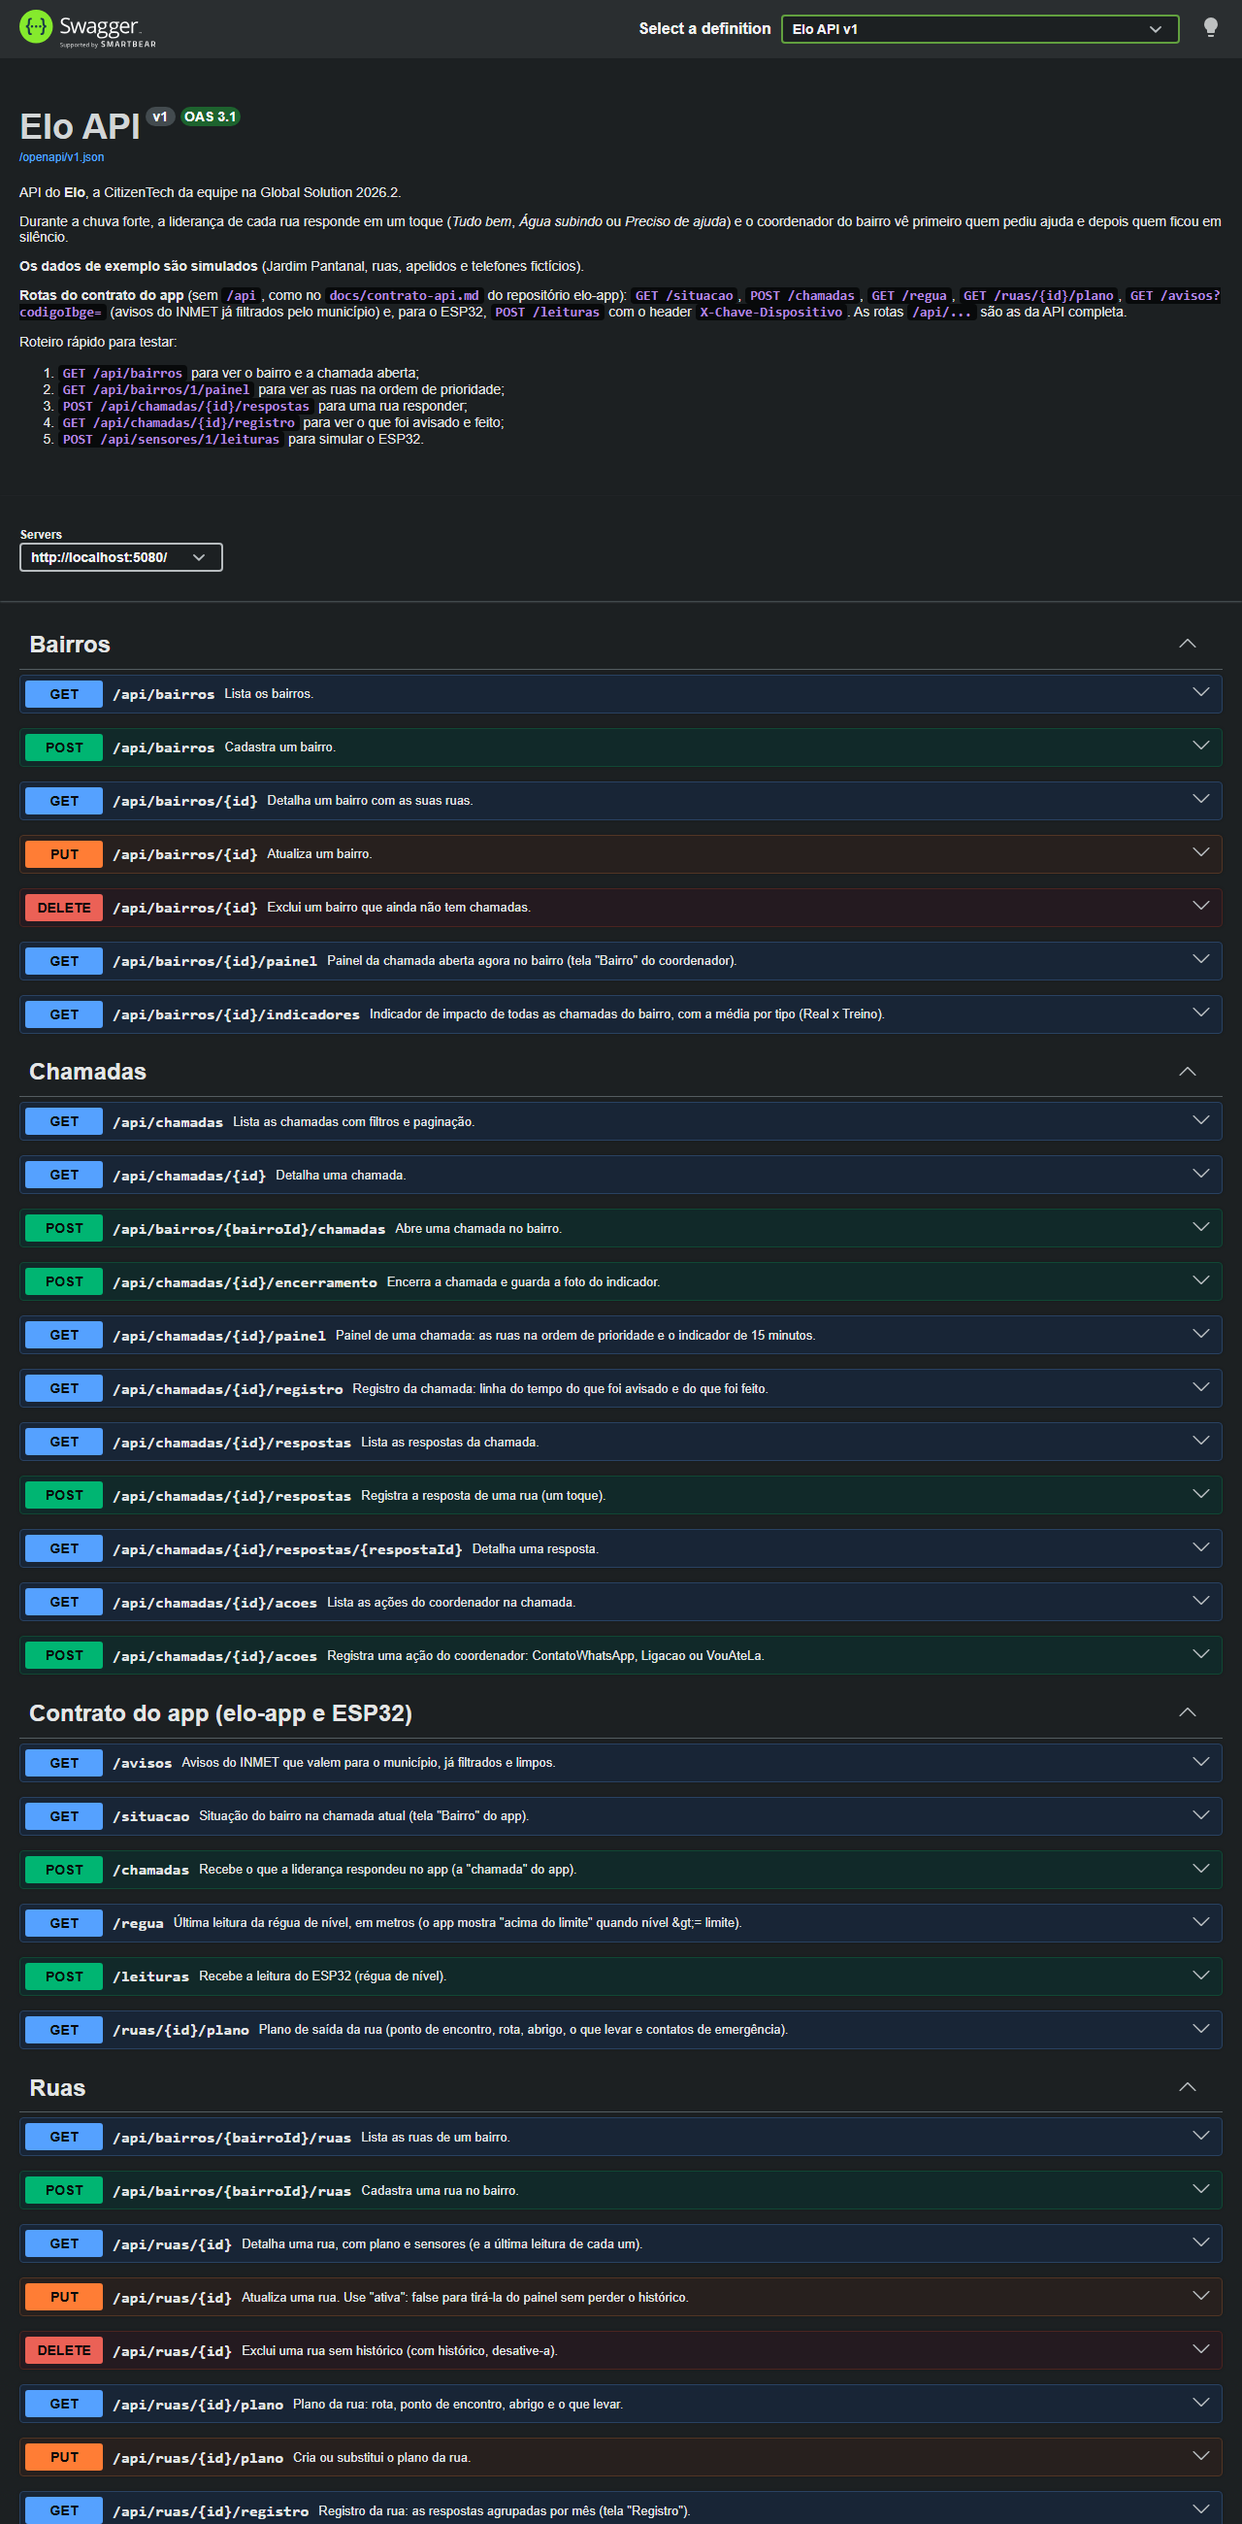
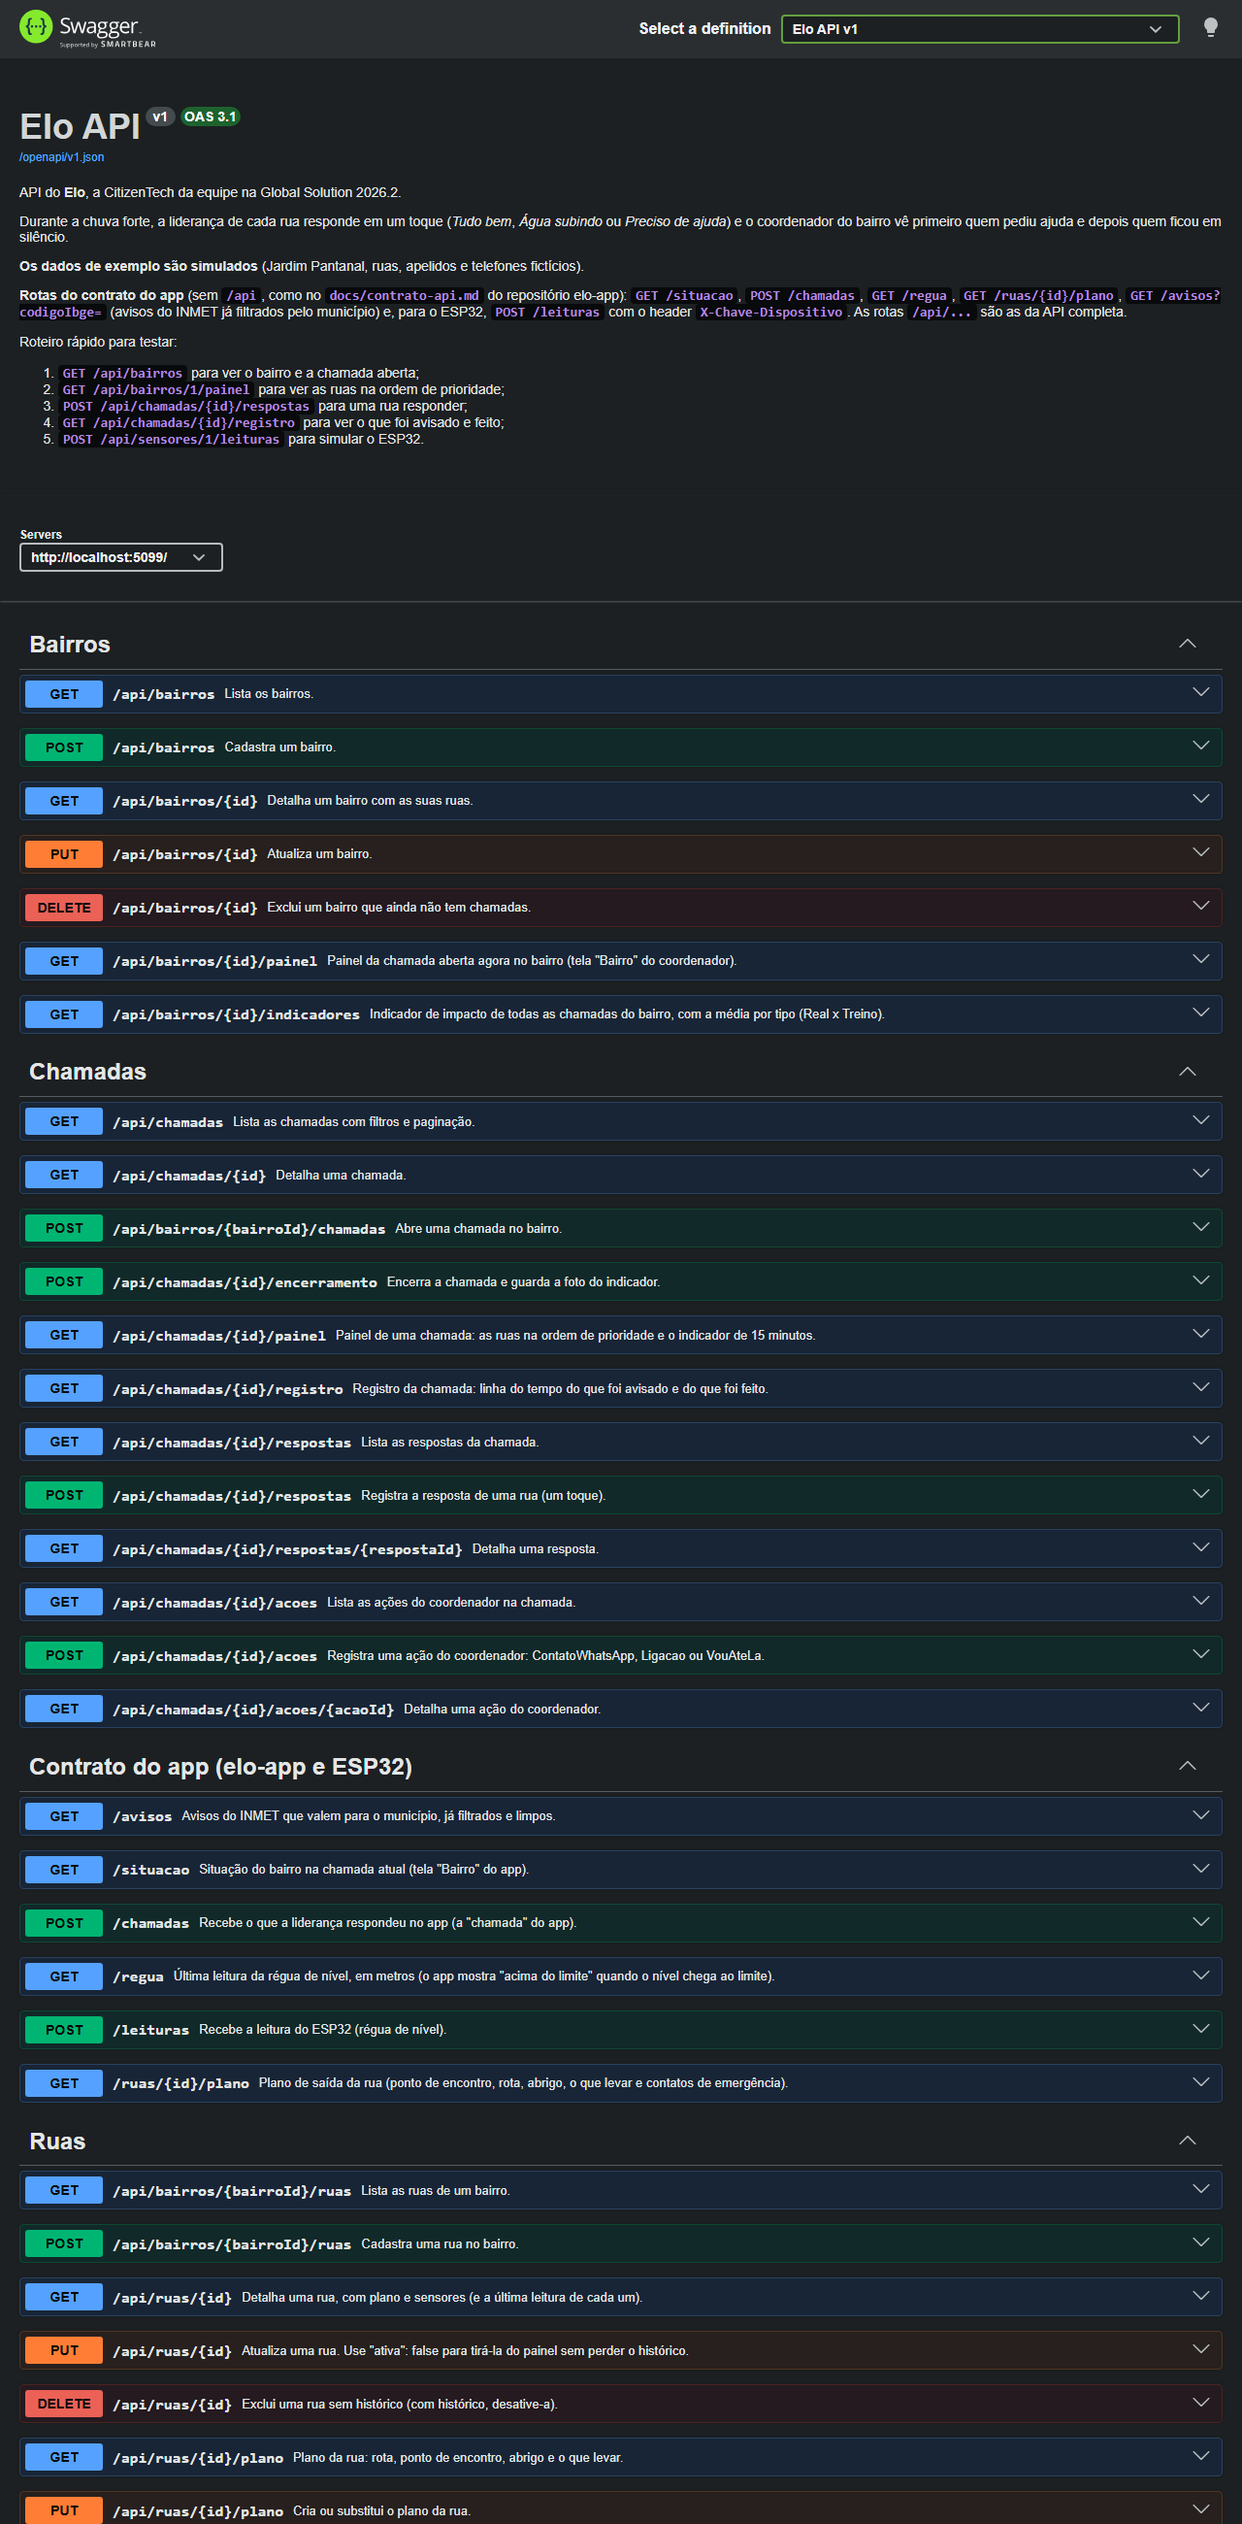
Atualiza README, evidências e prompts.md depois da revisão
README: 41 operações, os dois GETs novos na tabela, o Decorator do INMET
descrito como está no código, polimorfismo e value objects atualizados, 154
testes e o motivo de a segunda migration não gerar SQL.

Evidências: novo print do Swagger (com o GET da ação e sem o "&gt;"), o
resultado dos 154 testes e o Location dos passos 8 e 9, conferidos de novo num
banco recém-criado. O prompts.md registra o pedido de revisão e o que mudou.

Changed region(s): [[0.0, 0.6542, 0.625, 1.0], [0.1875, 0.9969, 0.2188, 1.0]]

diff --git a/README.md b/README.md
@@ -142,7 +142,7 @@ Sem chave configurada, só o ambiente de desenvolvimento aceita a leitura (para 
 
 ## Endpoints
 
-São 39 operações REST, todas assíncronas e documentadas no Swagger/Scalar.
+São 41 operações REST, todas assíncronas e documentadas no Swagger/Scalar.
 
 ### Rotas do contrato do app e do ESP32 (sem `/api`)
 
@@ -183,9 +183,11 @@ Nos dados simulados: bairro `1`, treino antigo = chamada `1`, chamada real abert
 | GET / POST | `/api/chamadas/{id}/respostas` | Lista (filtros `situacao`, `ruaId`) ou registra a resposta de uma rua |
 | GET | `/api/chamadas/{id}/respostas/{respostaId}` | Detalha uma resposta |
 | GET / POST | `/api/chamadas/{id}/acoes` | Lista ou registra ação do coordenador (`ContatoWhatsApp`, `Ligacao`, `VouAteLa`) |
+| GET | `/api/chamadas/{id}/acoes/{acaoId}` | Detalha uma ação (é para cá que aponta o `Location` do 201) |
 | GET / POST | `/api/sensores` | Lista (filtro `ruaId`) ou cadastra uma régua |
 | GET / PUT / DELETE | `/api/sensores/{id}` | Detalha, atualiza ou exclui uma régua |
 | GET / POST | `/api/sensores/{id}/leituras` | Lista as últimas leituras ou registra uma leitura (em cm) |
+| GET | `/api/sensores/{id}/leituras/{leituraId}` | Detalha uma leitura (é para cá que aponta o `Location` do 201) |
 
 Os detalhes de campos e fluxos estão em [`docs/contrato-api.md`](docs/contrato-api.md).
 
@@ -224,12 +226,13 @@ o status é `preciso_ajuda` e o id da rua é texto. O [`ContratoDoAppService`](s
 traduz isso para o domínio (a resposta entra na `Chamada` aberta do bairro), sem duplicar regra: tudo passa pelos mesmos
 métodos de `Chamada`, `Resposta` e `Sensor`. O painel e o `/situacao` usam o mesmo [`MontadorDeSituacoes`](src/Elo.Application/Painel/MontadorDeSituacoes.cs).
 
-**Avisos do INMET.** A Aplicação só conhece a interface `IFonteDeAvisos`. Na Infraestrutura, o
-[`ClienteDoInmet`](src/Elo.Infrastructure/Avisos/ClienteDoInmet.cs) baixa a resposta, o
-[`LeitorDeAvisosDoInmet`](src/Elo.Infrastructure/Avisos/LeitorDeAvisosDoInmet.cs) aplica as mesmas regras do `inmet.ts` do app,
-a [`FonteDeAvisosEmCache`](src/Elo.Infrastructure/Avisos/FonteDeAvisosEmCache.cs) (padrão Decorator) guarda a última lista boa e o
-[`AtualizadorDeAvisosWorker`](src/Elo.Infrastructure/Avisos/AtualizadorDeAvisosWorker.cs) atualiza a cada 5 minutos.
-O [`AvisoService`](src/Elo.Application/Avisos/AvisoService.cs) filtra pelo município com LINQ.
+**Avisos do INMET (padrão Decorator).** A Aplicação só conhece a interface `IFonteDeAvisos`. Na Infraestrutura, duas
+classes implementam essa interface: o [`ClienteDoInmet`](src/Elo.Infrastructure/Avisos/ClienteDoInmet.cs) vai direto ao INMET
+(o [`LeitorDeAvisosDoInmet`](src/Elo.Infrastructure/Avisos/LeitorDeAvisosDoInmet.cs) aplica as mesmas regras do `inmet.ts` do app)
+e a [`FonteDeAvisosEmCache`](src/Elo.Infrastructure/Avisos/FonteDeAvisosEmCache.cs) embrulha o cliente e acrescenta o cache,
+guardando a última lista boa. Quem pede `IFonteDeAvisos` recebe o cache sem saber disso. O
+[`AtualizadorDeAvisosWorker`](src/Elo.Infrastructure/Avisos/AtualizadorDeAvisosWorker.cs) atualiza o cache a cada 5 minutos
+pela interface `ICacheDeAvisos`, e o [`AvisoService`](src/Elo.Application/Avisos/AvisoService.cs) filtra pelo município com LINQ.
 
 Modelo de domínio:
 
@@ -275,15 +278,15 @@ classDiagram
 | Conceito | Onde |
 |---|---|
 | **Abstração e herança** | [`Entidade`](src/Elo.Domain/Comum/Entidade.cs) é a base de todas as entidades. [`Chamada`](src/Elo.Domain/Chamadas/Chamada.cs) é abstrata, com as subclasses [`ChamadaReal`](src/Elo.Domain/Chamadas/ChamadaReal.cs) e [`ChamadaTreino`](src/Elo.Domain/Chamadas/ChamadaTreino.cs) |
-| **Polimorfismo** | `Tipo`, `Pergunta` e `MontarMensagemParaRua` são abstratos: cada chamada responde do seu jeito (o treino avisa "TREINO" para ninguém confundir com alerta real). O painel e o link do WhatsApp usam isso sem saber o tipo |
+| **Polimorfismo** | `Tipo`, `Pergunta`, `MontarMensagemParaRua` e `DescreverAbertura` são abstratos, e `AvisoQueMotivou` e `DuracaoPrevistaEmMinutos` são virtuais: cada chamada responde do seu jeito (o treino avisa "TREINO" para ninguém confundir com alerta real). O painel, o link do WhatsApp, o registro e o DTO usam isso sem saber o tipo, sem `is` nem `as` |
 | **Encapsulamento** | Setters privados, coleções expostas só para leitura (`IReadOnlyCollection` sobre lista privada), construtor `internal` de [`Resposta`](src/Elo.Domain/Chamadas/Resposta.cs): só a chamada cria respostas, depois de validar janela de tempo e bairro |
-| **Value objects** | [`Lideranca`](src/Elo.Domain/Ruas/Lideranca.cs), [`PlanoDaRua`](src/Elo.Domain/Ruas/PlanoDaRua.cs), [`AvisoOficial`](src/Elo.Domain/Chamadas/AvisoOficial.cs) e [`IndicadorDaChamada`](src/Elo.Domain/Chamadas/IndicadorDaChamada.cs) são `record`s imutáveis, comparados por valor |
-| **Interfaces** | Repositórios ([`IRepository<T>`](src/Elo.Application/Abstracoes/IRepository.cs) genérico e os específicos), `IUnitOfWork` e uma interface por serviço, inclusive `IContratoDoAppService` |
+| **Value objects** | [`Lideranca`](src/Elo.Domain/Ruas/Lideranca.cs), [`PlanoDaRua`](src/Elo.Domain/Ruas/PlanoDaRua.cs), [`AvisoOficial`](src/Elo.Domain/Chamadas/AvisoOficial.cs) e [`IndicadorDaChamada`](src/Elo.Domain/Chamadas/IndicadorDaChamada.cs) são `record`s imutáveis, comparados por valor. No `PlanoDaRua`, a lista de itens é só leitura e entra na comparação (`Equals` e `GetHashCode` escritos à mão, porque o `record` compararia a lista por referência) |
+| **Interfaces** | Repositórios ([`IRepository<T>`](src/Elo.Application/Abstracoes/IRepository.cs) genérico e os específicos), `IUnitOfWork`, uma interface por serviço, inclusive `IContratoDoAppService`, e `IFonteDeAvisos`, implementada pelo cliente do INMET e pelo cache que o embrulha (Decorator) |
 | **Generics** | `IRepository<T> where T : Entidade`, [`RepositoryBase<T>`](src/Elo.Infrastructure/Repositorios/RepositoryBase.cs), `PaginaResultado<T>`, `ResultadoDeRegistro<T>` |
 
 ### Web API (2,5)
 
-- Controllers REST em [`src/Elo.Api/Controllers`](src/Elo.Api/Controllers) com `[ApiController]`, rotas por recurso e sub-recurso, verbos corretos e códigos 200, 201 (com `Location`), 204, 400, 401, 404, 409 e 422.
+- Controllers REST em [`src/Elo.Api/Controllers`](src/Elo.Api/Controllers) com `[ApiController]`, rotas por recurso e sub-recurso, verbos corretos e códigos 200, 201 (com `Location` apontando para o recurso criado), 204, 400, 401, 404, 409 e 422.
 - **Rotas do contrato do app** ([`ContratoDoAppController`](src/Elo.Api/Controllers/ContratoDoAppController.cs)) no formato que o `elo-app` e o ESP32 já usam.
 - DTOs de entrada e saída separados das entidades (a API nunca expõe entidade), com validação por DataAnnotations e mensagens em português.
 - Erros padronizados em ProblemDetails (RFC 9457) pelo [`TratadorGlobalDeExcecoes`](src/Elo.Api/Configuracao/TratadorGlobalDeExcecoes.cs): os controllers não têm `try/catch`.
@@ -297,7 +300,7 @@ classDiagram
 - **Herança TPH**: `ChamadaReal` e `ChamadaTreino` na tabela `Chamadas`, com a coluna `Discriminador`.
 - **Owned types** para os value objects, **coleção primitiva** (lista do plano salva em JSON), enums gravados como texto, conversor de datas para UTC.
 - **Índice único filtrado** que garante no banco uma chamada aberta por bairro, e índice único no id local das respostas.
-- [Migrations](src/Elo.Infrastructure/Persistencia/Migrations) aplicadas sozinhas na inicialização (a segunda registra a adaptação ao contrato do app).
+- [Migrations](src/Elo.Infrastructure/Persistencia/Migrations) aplicadas sozinhas na inicialização. A segunda registra a adaptação ao contrato do app (id local em texto e observação de até 200 caracteres) e não gera SQL: no SQLite essas colunas já eram `TEXT` e o tamanho máximo não é aplicado pelo banco, então só o modelo mudou.
 - LINQ em vários níveis:
   - [`PriorizadorDeRuas`](src/Elo.Domain/Painel/PriorizadorDeRuas.cs): `Where`, `OrderBy`/`ThenBy`/`ThenByDescending` e concatenação: **é o LINQ que ordena as ruas em silêncio**;
   - [`IndicadorDaChamada`](src/Elo.Domain/Chamadas/IndicadorDaChamada.cs): `GroupBy`, `Min`, `Any`, `Count`, `Average`;
@@ -322,11 +325,11 @@ classDiagram
 - Camadas com dependências apontando para dentro; injeção de dependência em tudo (inclusive o relógio, via `TimeProvider`, para testar o tempo).
 - Regras de negócio no domínio, validação de entrada na borda, camada anticorrupção para o contrato do app, erros padronizados, logs estruturados **sem dado sensível** (a observação nunca vai para o log).
 - Build sem nenhum aviso. Nomes do domínio em português, iguais aos da proposta (chamada, rua em silêncio, "Vou até lá").
-- **146 testes automatizados** ([`tests/Elo.Tests`](tests/Elo.Tests)), nenhum depende de internet:
-  - 51 unitários do domínio (polimorfismo, janela de tempo, offline, indicador, ordem do painel, mascaramento);
+- **154 testes automatizados** ([`tests/Elo.Tests`](tests/Elo.Tests)), nenhum depende de internet:
+  - 54 unitários do domínio (polimorfismo, janela de tempo, offline, indicador, ordem do painel, mascaramento, value objects);
   - 36 unitários da aplicação: serviços com **Moq** e relógio falso (`FakeTimeProvider`), a tradução para o formato do app e o filtro de avisos;
-  - 18 unitários da infraestrutura: a leitura da resposta do INMET (com o mesmo fixture e os mesmos casos de borda dos testes do app) e o cache;
-  - 41 de integração com a API inteira (`WebApplicationFactory`) e um banco SQLite temporário por classe, incluindo as rotas do contrato, a chave do ESP32 e o `/avisos` com um INMET falso.
+  - 19 unitários da infraestrutura: a leitura da resposta do INMET (com o mesmo fixture e os mesmos casos de borda dos testes do app), o cache e a ligação do Decorator na injeção de dependência;
+  - 45 de integração com a API inteira (`WebApplicationFactory`) e um banco SQLite temporário por classe, incluindo as rotas do contrato, a chave do ESP32, o `/avisos` com um INMET falso e o `Location` de cada 201.
 
 ## Regras de negócio
 
@@ -354,7 +357,7 @@ classDiagram
 ## Evidências de funcionamento
 
 - [`docs/evidencias/fluxo-completo.md`](docs/evidencias/fluxo-completo.md): 27 requisições reais feitas contra a API rodando, em quatro partes: a API completa (painel antes e depois, reenvio offline, erros 400/404/409/422), as **rotas do contrato do app e do ESP32** (`/situacao`, `/chamadas`, `/leituras` com 401 sem chave e 204 com chave, `/regua`, `/ruas/{id}/plano`), o fim da chamada com o indicador e os **avisos reais do INMET** (148.353 bytes do INMET viraram 2.333 bytes para o município).
-- [`docs/evidencias/resultado-dos-testes.txt`](docs/evidencias/resultado-dos-testes.txt): os 146 testes aprovados.
+- [`docs/evidencias/resultado-dos-testes.txt`](docs/evidencias/resultado-dos-testes.txt): os 154 testes aprovados.
 
 **Página do resumo do bairro** (a régua mostra o indicador de 15 minutos; ruas em silêncio têm o marcador vazado):
 

diff --git a/prompts.md b/prompts.md
@@ -70,6 +70,29 @@ Antes da entrega, revisem juntos o código, principalmente:
 - `src/Elo.Domain/Painel/PriorizadorDeRuas.cs` (o LINQ que ordena as ruas em silêncio);
 - `src/Elo.Infrastructure/Persistencia/Configuracoes/ChamadaConfiguration.cs` (mapeamento TPH no EF Core);
 - `src/Elo.Application/Chamadas/RespostaService.cs` (reenvio offline sem duplicar);
-- `src/Elo.Application/ContratoDoApp/ContratoDoAppService.cs` (como o app e a régua conversam com a API).
+- `src/Elo.Application/ContratoDoApp/ContratoDoAppService.cs` (como o app e a régua conversam com a API);
+- `src/Elo.Infrastructure/Avisos/FonteDeAvisosEmCache.cs` (o padrão Decorator no cache do INMET).
 
 Se usarem IA para mudar algo depois, acrescentem o prompt aqui.
+
+## Revisão do PR
+
+> com base nos criterios do print e na documentação, quero q vc revise o PR q eu criei e verifique se está compativel 100% com o que se pede, quero uma nota de 0 a 100
+
+Anexos: o mesmo print do enunciado e o PDF da proposta.
+
+A IA leu o código, rodou os testes e subiu uma cópia da API para conferir os endpoints. Ela apontou seis pontos a
+melhorar e lembrou que o repositório está privado e que a `main` ainda não tem o código. A resposta foi:
+
+> Sim, corrigir
+
+Com isso, a IA:
+
+- corrigiu a documentação desatualizada: `pessoas` é opcional no Swagger e no roteiro `.http`, e o `&gt;` saiu da descrição do `GET /regua`;
+- deixou o `PlanoDaRua` imutável e comparado por valor, inclusive a lista de itens;
+- trocou os `is`/`as` da linha do tempo e do DTO da chamada por polimorfismo (`DescreverAbertura`, `AvisoQueMotivou` e `DuracaoPrevistaEmMinutos`);
+- transformou o cache do INMET num Decorator de verdade: o `ClienteDoInmet` e a `FonteDeAvisosEmCache` implementam a mesma `IFonteDeAvisos`;
+- criou `GET /api/chamadas/{id}/acoes/{acaoId}` e `GET /api/sensores/{id}/leituras/{leituraId}`, para o `Location` do 201 apontar para o recurso criado;
+- explicou no README por que a segunda migration não gera SQL.
+
+No fim, 154 testes passando e build sem avisos.

diff --git a/docs/evidencias/fluxo-completo.md b/docs/evidencias/fluxo-completo.md
@@ -2,6 +2,8 @@
 
 Requisições feitas de verdade contra a API rodando localmente (`dotnet run --project src/Elo.Api`), em 10/11/2026 01:41 UTC, a partir do banco recém-criado com os dados simulados. Os ids e horários vêm dessa execução.
 
+Depois da revisão do PR, o `Location` dos passos 8 e 9 passou a apontar para o recurso criado, e não para a listagem. Os dois passos foram conferidos de novo em 10/11/2026 02:54 UTC, num banco recém-criado e numa instância na porta 5099: os ids são os mesmos (ação 3 e leitura 13), e o detalhe de cada uma responde 200.
+
 A primeira parte usa as rotas da API completa (`/api/...`). A segunda usa as **rotas do contrato do app** (sem `/api`, como no `docs/contrato-api.md` do repositório elo-app), do jeito que o app e o ESP32 chamam. O mesmo roteiro está em [`src/Elo.Api/Elo.Api.http`](../../src/Elo.Api/Elo.Api.http).
 
 ## Parte 1: API completa (`/api`)
@@ -231,7 +233,7 @@ Content-Type: application/json
 }
 ```
 
-Resposta: **HTTP 201** (Location: `http://localhost:5080/api/chamadas/2/acoes`)
+Resposta: **HTTP 201** (Location: `http://localhost:5080/api/chamadas/2/acoes/3`)
 
 ```json
 {
@@ -256,7 +258,7 @@ Content-Type: application/json
 }
 ```
 
-Resposta: **HTTP 201** (Location: `http://localhost:5080/api/sensores/2/leituras`)
+Resposta: **HTTP 201** (Location: `http://localhost:5080/api/sensores/2/leituras/13`)
 
 ```json
 {
